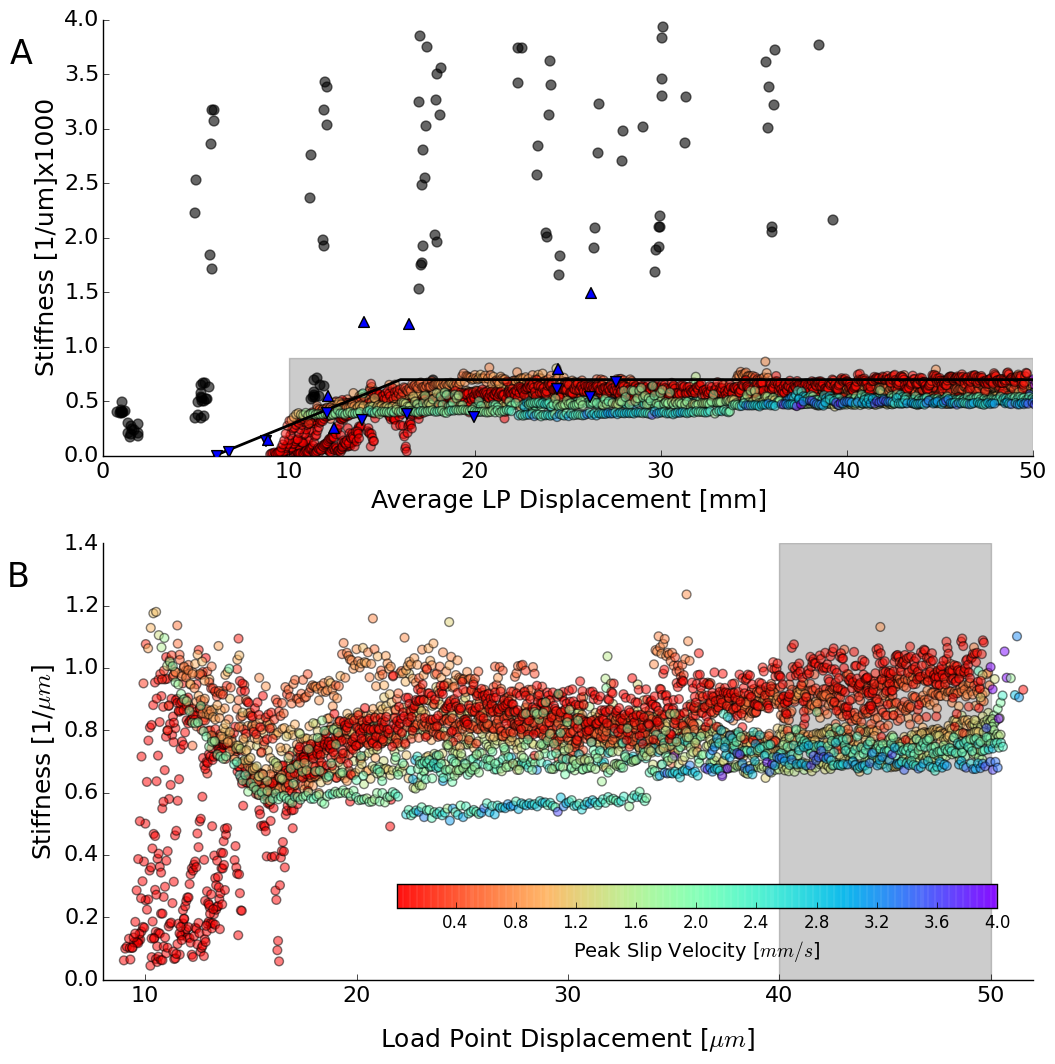
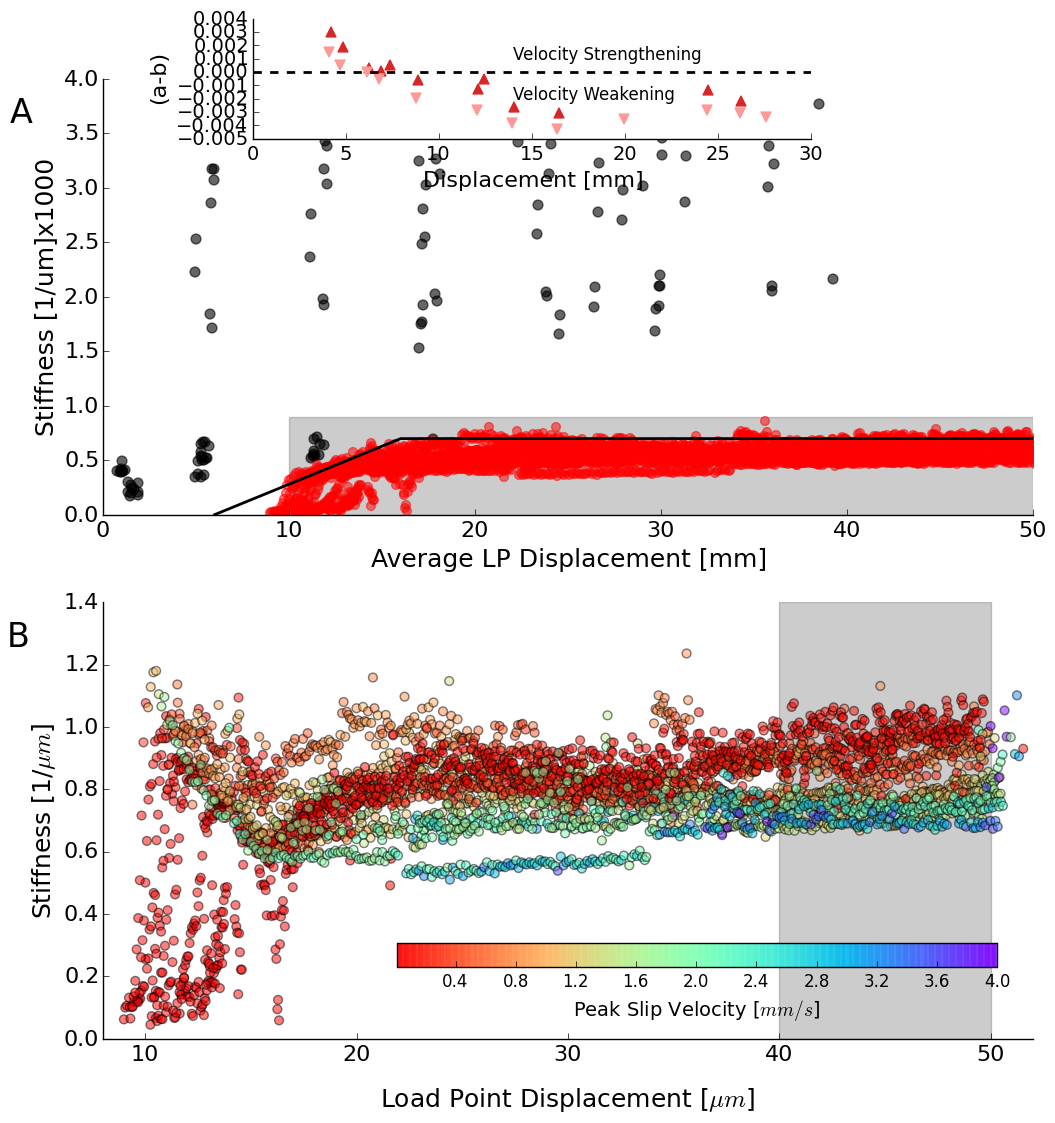
Add a-b plot to top, above plot a

diff --git a/Figures/Fig_Slip_Properties/make_final_plot.py b/Figures/Fig_Slip_Properties/make_final_plot.py
@@ -45,6 +45,18 @@ def get_kc(disp):
     else:
         return slope*disp - 0.0004
 
+# These are the "Tableau 20" colors as RGB.
+tableau20 = [(31, 119, 180), (174, 199, 232), (255, 127, 14), (255, 187, 120),
+             (44, 160, 44), (152, 223, 138), (214, 39, 40), (255, 152, 150),
+             (148, 103, 189), (197, 176, 213), (140, 86, 75), (196, 156, 148),
+             (227, 119, 194), (247, 182, 210), (127, 127, 127), (199, 199, 199),
+             (188, 189, 34), (219, 219, 141), (23, 190, 207), (158, 218, 229)]
+
+# Scale the RGB values to the [0, 1] range, which is the format matplotlib accepts.
+for i in range(len(tableau20)):
+    r, g, b = tableau20[i]
+    tableau20[i] = (r / 255., g / 255., b / 255.)
+
 # Tuple of experiments we'll consider for plotting even data from
 experiments_with_event_data = ('p4342','p4343','p4344','p4345','p4346',
                                'p4347','p4348','p4350','p4351')
@@ -70,7 +82,7 @@ ax2 = plt.subplot(212)
 
 
 #
-# Top Plot
+# Plot A
 #
 
 exps = ['p4267','p4268','p4269','p4270','p4271','p4272','p4273',
@@ -122,42 +134,6 @@ ax1.add_patch(Rectangle((rect_x1,rect_y1),rect_width,rect_height,alpha=0.2, zord
 ax1.set_xlim(0,50)
 ax1.set_ylim(0,0.004*1000)
 
-# Plot Kc
-df = pd.read_excel('/Users/jleeman/Dropbox/PennState/BiaxExperiments/p4309/p4309_rsf_fits.xlsx')
-
-
-
-
-for i,fit in df.iterrows():
-
-    if fit['Grade'] == 'A':
-        #color='#000066'
-        #color='#FFFFFF'
-        color='#0000FF'
-    elif fit['Grade'] == 'B':
-        color='#0066CC'
-        color='#0000FF'
-        #color='#FFFFFF'
-    elif fit['Grade'] == 'C':
-        #color='#00CCFF'
-        color='#FFFFFF'
-        continue
-    elif fit['Grade'] == 'D':
-        #color='#00FFFF'
-        color='#FFFFFF'
-        continue
-
-    if fit['Type']=='Down' and fit['Law']=='r' and fit['k']==0.0055:
-        ax1.scatter(fit['LP_Disp']/1000.,fit['Kc']*1000,c=color,s=60,marker='v',zorder=50)
-        print fit['LP_Disp']/1000.,fit['Kc']
-
-    elif fit['Type']=='Up' and fit['Law']=='r' and fit['k']==0.0055:
-        ax1.scatter(fit['LP_Disp']/1000.,fit['Kc']*1000,c=color,s=60,marker='^',zorder=50)
-        print fit['LP_Disp']/1000.,fit['Kc']
-    else:
-        pass
-
-
 low_color = 10./1000.
 high_color = 4000./1000.
 color_map = plt.get_cmap('rainbow_r')
@@ -167,11 +143,98 @@ color_col=11
 
 for key in experiment_event_data:
     event_data = experiment_event_data[key]
-    sc = ax1.scatter(event_data[:,9]/1000.,event_data[:,5]*1000,c=event_data[:,color_col]/1000.,s=marker_size,alpha=marker_alpha,vmin=low_color,vmax=high_color,cmap=color_map)
+    sc = ax1.scatter(event_data[:,9]/1000.,event_data[:,5]*1000,s=marker_size,alpha=marker_alpha,color='r')
     print key,np.min(event_data[:,color_col]), np.max(event_data[:,color_col])
 
 # Plot line for kc definition
 ax1.plot([6,16,50],[2.6e-6*1000,7e-4*1000,7e-4*1000],color='k',linewidth=2)
+
+#
+# Plot A inset
+#
+df = pd.read_excel('p4309_rsf_fits.xlsx')
+
+data = df[df['Law']=='r']
+data = data[data['k']==0.0055]
+data =  data.query('Grade == ["A","B"]')
+
+axAinset = plt.axes([.125, .95, .465, .1])
+
+# Label Plot
+#axAinset.text(0.01,0.9,'B',transform = axAinset.transAxes,fontsize=24)
+
+# Set labels and tick sizes
+axAinset.set_xlabel(r'Displacement [mm]',fontsize=16)
+axAinset.set_ylabel(r'(a-b)',fontsize=16)
+axAinset.tick_params(axis='both', which='major', labelsize=14)
+
+# Turns off chart clutter
+
+# Turn off top and right tick marks
+axAinset.get_xaxis().tick_bottom()
+axAinset.get_yaxis().tick_left()
+
+# Turn off top and right splines
+axAinset.spines["top"].set_visible(False)
+axAinset.spines["right"].set_visible(False)
+
+# Plotting
+up = data[data['Type']=='Up']
+axAinset.scatter(up['LP_Disp']/1000,(up['a']-up['b']),color=tableau20[6],
+            s=50,marker='^', label='Velocity Step Up')
+
+down = data[data['Type']=='Down']
+axAinset.scatter(down['LP_Disp']/1000,(down['a']-down['b']),color=tableau20[7],
+            s=50,marker='v', label='Velocity Step Down')
+
+axAinset.axhline(y=0,color='k',linewidth='2',linestyle='--')
+
+# Label velocity regions
+axAinset.text(14,0.001,'Velocity Strengthening',fontsize=12)
+axAinset.text(14,-0.002,'Velocity Weakening',fontsize=12)
+
+axAinset.set_ylim(-0.005 ,0.004)
+
+# # Plot Kc
+# df = pd.read_excel('/Users/jleeman/Dropbox/PennState/BiaxExperiments/p4309/p4309_rsf_fits.xlsx')
+#
+#
+#
+#
+# for i,fit in df.iterrows():
+#
+#     if fit['Grade'] == 'A':
+#         #color='#000066'
+#         #color='#FFFFFF'
+#         color='#0000FF'
+#     elif fit['Grade'] == 'B':
+#         color='#0066CC'
+#         color='#0000FF'
+#         #color='#FFFFFF'
+#     elif fit['Grade'] == 'C':
+#         #color='#00CCFF'
+#         color='#FFFFFF'
+#         continue
+#     elif fit['Grade'] == 'D':
+#         #color='#00FFFF'
+#         color='#FFFFFF'
+#         continue
+#
+#     if fit['Type']=='Down' and fit['Law']=='r' and fit['k']==0.0055:
+#         #ax1.scatter(fit['LP_Disp']/1000.,fit['Kc']*1000,c=color,s=60,marker='v',zorder=50)
+#         print fit['LP_Disp']/1000.,fit['Kc']
+#
+#     elif fit['Type']=='Up' and fit['Law']=='r' and fit['k']==0.0055:
+#         #ax1.scatter(fit['LP_Disp']/1000.,fit['Kc']*1000,c=color,s=60,marker='^',zorder=50)
+#         print fit['LP_Disp']/1000.,fit['Kc']
+#     else:
+#         pass
+
+
+
+#
+# Plot B
+#
 
 # Set labels and tick sizes
 ax2.set_xlabel(r'Load Point Displacement [$\mu m$]',fontsize=18,labelpad=15)
